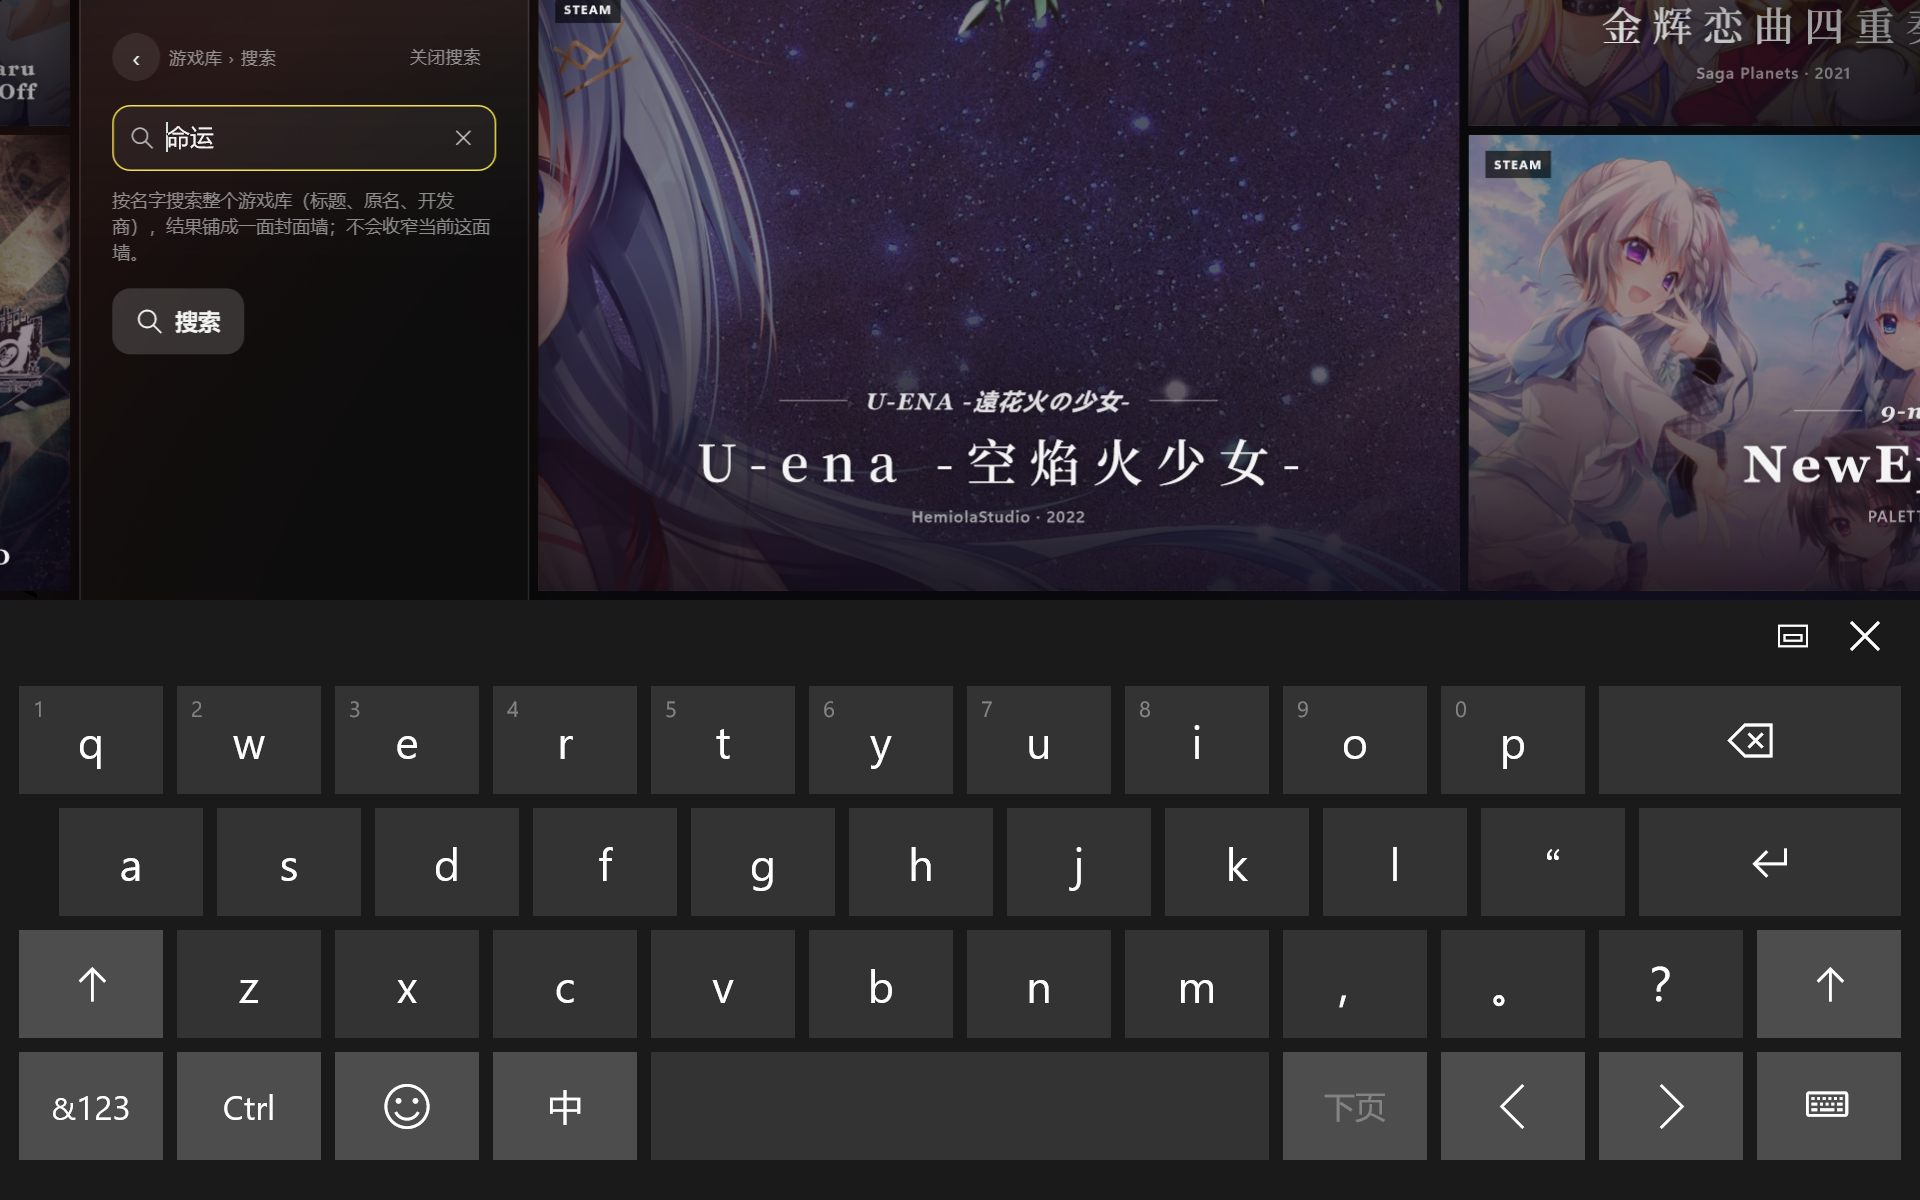
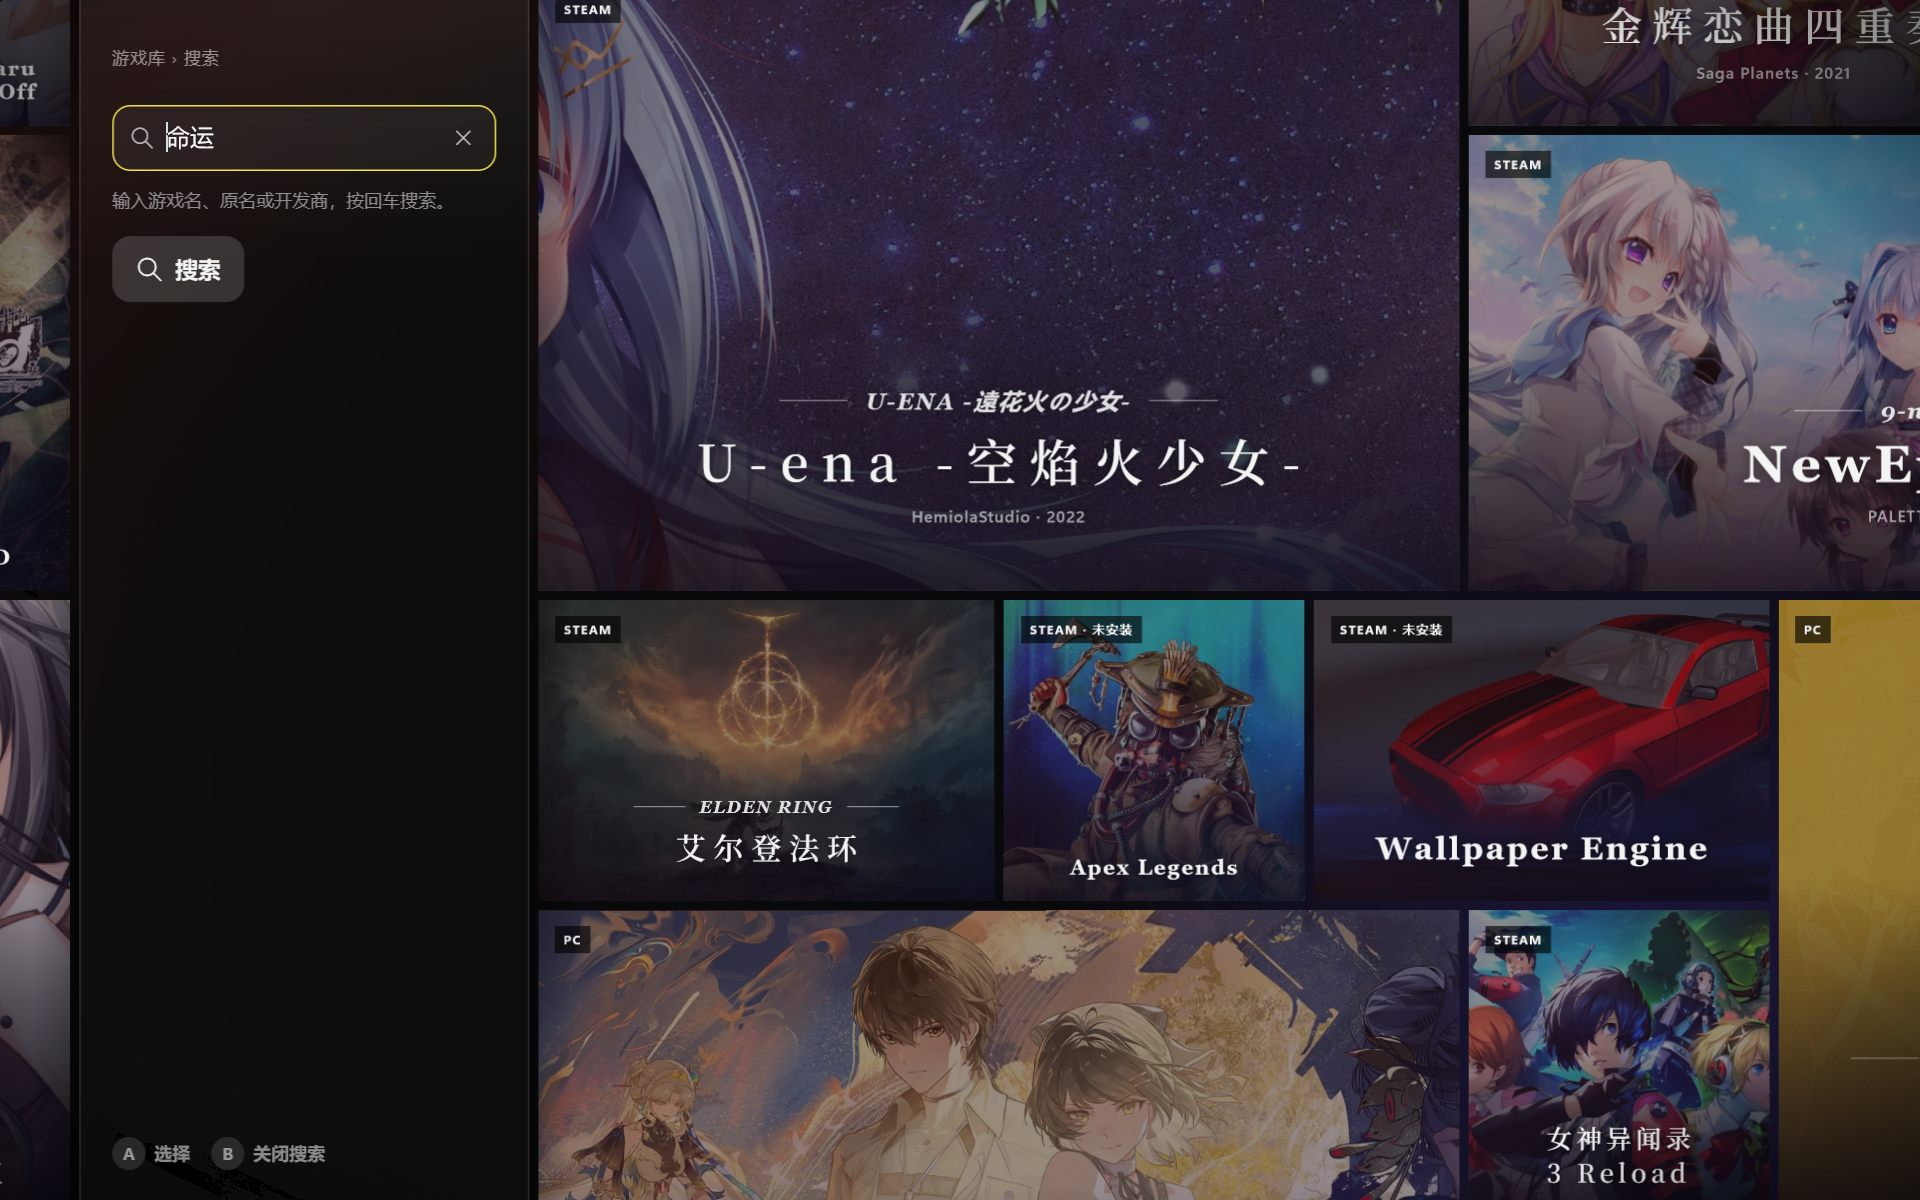
游戏库原生版：搜索面板去掉 ‹ 与「关闭搜索」，提示改成正常的搜索说明

diff --git a/frontend/library-native/ClawLibrary/Stage/Chrome.cs b/frontend/library-native/ClawLibrary/Stage/Chrome.cs
@@ -196,18 +196,18 @@ public sealed class Chrome
     // ---------------- 缝：搜索面板 ----------------
 
     /// <summary>搜索面板里能聚焦 / 能点的几处（面板坐标，DIP）。Input 是输入框里放文字的那块（XAML TextBox 叠在上面）。</summary>
-    public sealed record SearchPanelLayout(Windows.Foundation.Rect Back, Windows.Foundation.Rect Close, Windows.Foundation.Rect Field,
-        Windows.Foundation.Rect Input, Windows.Foundation.Rect Clear, Windows.Foundation.Rect Submit);
+    public sealed record SearchPanelLayout(Windows.Foundation.Rect Field, Windows.Foundation.Rect Input, Windows.Foundation.Rect Clear, Windows.Foundation.Rect Submit);
 
     public const string SearchPlaceholder = "搜索游戏库";
-    private const string SearchHint = "按名字搜索整个游戏库（标题、原名、开发商），结果铺成一面封面墙；不会收窄当前这面墙。";
+    private const string SearchHint = "输入游戏名、原名或开发商，按回车搜索。";
 
     /// <summary>
     /// 首页窄缝临时展开成的搜索面板（照 folia 书库首页缝里的全局搜索框：BravaisSeamSearch + bravaisHome.css）。
-    /// 自上而下：面包屑行（‹ · 游戏库 › 搜索 ·〔关闭搜索〕）→ 带框的输入框（放大镜、输入、×）→ 提示 → 主按钮「搜索」。
+    /// 自上而下：面包屑（游戏库 › 搜索）→ 带框的输入框（放大镜、输入、× 关闭）→ 提示 → 主按钮「搜索」。
+    /// （folia 面包屑行里的 ‹ 与「关闭搜索」不要：× 和 B 已经能关。）
     /// 间距照 .bravais-seam-search（padding 22 22 0，gap 16）、.bravais-search-form（高 44、圆角 12、描边 24 %、底 5 %，
     /// 有焦点时描边换强调色）、.bravais-search-hint（12 px、行高 1.45、上边 -6）、.bravais-chrome-button.is-primary（高 44、
-    /// 圆角 12、15 px 粗体、底 16 %）。focus：手柄焦点在哪一项（0 关闭搜索、1 输入框、2 搜索按钮，-1 不在面板里）。
+    /// 圆角 12、15 px 粗体、底 16 %）。focus：手柄焦点在哪一项（1 输入框、2 搜索按钮，-1 不在面板里）。
     /// </summary>
     public (ChromeArt Art, SearchPanelLayout Layout) SeamSearch(float height, int focus, bool typing)
     {
@@ -215,11 +215,6 @@ public sealed class Chrome
         float inner = W - PadX * 2;
         var iconFont = new FontSpec("Segoe Fluent Icons", 400);
         // 面包屑行（min-height 32）
-        var back = new Windows.Foundation.Rect(PadX, PadTop, 32, 32);
-        var closeL = H("关闭搜索", TextKit.Ui(400), 11, 0.08f * 11);
-        var (clx, cly, clw, clh) = Box(closeL);
-        float pillW = clw + 18 + 2, pillH = clh + 6 + 2;
-        var close = new Windows.Foundation.Rect(W - PadX - pillW, PadTop + 16 - pillH / 2, pillW, pillH);
         // 输入框（44 高）
         float formY = PadTop + 32 + Gap;
         var field = new Windows.Foundation.Rect(PadX, formY, inner, 44);
@@ -235,26 +230,15 @@ public sealed class Chrome
         var (lbx, lby, lbw, lbh) = Box(label);
         float btnW = 16 + 18 + 8 + lbw + 16;
         var submit = new Windows.Foundation.Rect(PadX, hintY + hbh + Gap, btnW, 44);
-        var layout = new SearchPanelLayout(back, close, field, input, clear, submit);
+        var layout = new SearchPanelLayout(field, input, clear, submit);
 
         var art = Draw(W, height, ds =>
         {
             var soft = Theme.SeamInkSoft;
-            // ‹ 与面包屑
-            ds.FillCircle((float)back.X + 16, (float)back.Y + 16, 16, Gfx.Rgba(255, 255, 255, 0.08));
-            var bl = H("‹", TextKit.Ui(400), 18);
-            var (bx, by, bw, bh) = Box(bl);
-            ds.DrawTextLayout(bl, (float)back.X + 16 - bw / 2 - bx, (float)back.Y + 16 - bh / 2 - by, Theme.Ink);
+            // 面包屑
             var crumb = H("游戏库 › 搜索", TextKit.Ui(400), 11, 0.08f * 11);
             var (cx0, cy0, _, ch) = Box(crumb);
-            ds.DrawTextLayout(crumb, (float)back.Right + 6 - cx0, PadTop + 16 - ch / 2 - cy0, soft);
-            // 关闭搜索（.bravais-seam-level：静止无框，焦点时 16 % 底 + 描边）
-            if (focus == 0)
-            {
-                ds.FillRoundedRectangle(close, 12, 12, Gfx.WithAlpha(Theme.Ink, 0.16));
-                ds.DrawRoundedRectangle(close, 12, 12, Gfx.WithAlpha(Theme.Ink, 0.26), 1);
-            }
-            ds.DrawTextLayout(closeL, (float)close.X + 10 - clx, (float)close.Y + 4 - cly, focus == 0 ? Theme.Ink : soft);
+            ds.DrawTextLayout(crumb, PadX - cx0, PadTop + 16 - ch / 2 - cy0, soft);
 
             // 输入框
             ds.FillRoundedRectangle(field, 12, 12, Gfx.WithAlpha(Theme.Ink, 0.05));

diff --git a/frontend/library-native/ClawLibrary/Stage/WallStage.Rail.cs b/frontend/library-native/ClawLibrary/Stage/WallStage.Rail.cs
@@ -322,9 +322,9 @@ public sealed partial class WallStage
     // ---------------- 搜索（照 folia 首页缝里的全局搜索框） ----------------
     // 放大镜把首页窄缝临时展开成完整宽度的搜索面板（与进合集同一套开口补间 + 翻面），输入框拿焦点。
     // 输入框不跟着打字过滤：提交才搜，结果作为一层「游戏库 › 搜索」压进来，铺成一面封面墙（不是列表）；
-    // 「关闭搜索」、×、Esc / B 只关面板，缝翻回竖条。没有结果时面板留着，提示一下。
+    // ×、Esc / B 只关面板，缝翻回竖条。没有结果时面板留着，提示一下。
 
-    /// <summary>搜索面板里手柄焦点在哪一项：0 关闭搜索、1 输入框、2 搜索按钮。</summary>
+    /// <summary>搜索面板里手柄焦点在哪一项：1 输入框、2 搜索按钮。</summary>
     private int _searchFocus = 1;
     /// <summary>输入框此刻有键盘焦点（描边换强调色）。</summary>
     private bool _searchTyping;
@@ -367,11 +367,6 @@ public sealed partial class WallStage
                     e.Handled = true;
                     _rootEl.Focus(FocusState.Programmatic);
                     _railFocused = true; _searchFocus = 2; RepaintRail();
-                    break;
-                case Windows.System.VirtualKey.Up:
-                    e.Handled = true;
-                    _rootEl.Focus(FocusState.Programmatic);
-                    _railFocused = true; _searchFocus = 0; RepaintRail();
                     break;
             }
         };
@@ -510,7 +505,7 @@ public sealed partial class WallStage
     private bool SearchMove(Direction dir)
     {
         if (dir is Direction.Left or Direction.Right) { ExitRail(dir == Direction.Left); return true; }
-        int next = Math.Clamp(_searchFocus + (dir == Direction.Down ? 1 : -1), 0, 2);
+        int next = Math.Clamp(_searchFocus + (dir == Direction.Down ? 1 : -1), 1, 2);
         if (next != _searchFocus) { _searchFocus = next; RepaintRail(); }
         return true;
     }
@@ -519,7 +514,6 @@ public sealed partial class WallStage
     {
         switch (_searchFocus)
         {
-            case 0: CloseSearch(); break;
             case 1: FocusSearchBox(); break;
             default: SubmitSearch(); break;
         }
@@ -530,7 +524,7 @@ public sealed partial class WallStage
     {
         if (_searchLayout is not { } l) return;
         var p = new Windows.Foundation.Point(lx, ly);
-        if (l.Back.Contains(p) || l.Close.Contains(p) || l.Clear.Contains(p)) CloseSearch();
+        if (l.Clear.Contains(p)) CloseSearch();
         else if (l.Field.Contains(p)) FocusSearchBox();
         else if (l.Submit.Contains(p)) { _railFocused = true; _searchFocus = 2; SubmitSearch(); }
     }

diff --git a/docs/native-library/README.md b/docs/native-library/README.md
@@ -1,4 +1,4 @@
-# 游戏库原生版：对照与实测（2026-10-14，MSI Claw 8，1920×1200 @150%，60 Hz）
+# 游戏库原生版：对照与实测（2026-10-14，MSI Claw 8，1920×1200 @150%，60 Hz）
 
 代码在 `frontend/library-native/`。WinUI 3 只做窗口，墙面全部画在 Microsoft.UI.Composition 视觉层上，
 相机 / 缝 / 让位 / 翻牌 / 波次动画都在合成线程跑；NativeAOT，自包含 MSIX，用 CN=ClawToolbox 签名。
@@ -104,9 +104,9 @@ CPU 0.8 %、GPU 3D 1.9 %；60 秒无操作后 CPU 0.04 %、GPU 0 %。
 
 - 对照的是 folia 书库首页缝里的全局搜索框（`src/library/suites/bravais/BravaisSeamSearch.tsx`、`bravaisHome.css` 的 `.bravais-seam-search` / `.bravais-search-form` / `.bravais-search-hint`、`bravais.css` 的 `.bravais-chrome-button.is-primary` 与 `.bravais-seam-level`），按它的结构和尺寸自己重画（folia 是 AGPL，没有拷代码）：
   - 竖条上的放大镜把首页窄缝**临时展开成完整宽度**（与进合集同一套开口补间 + 翻面），输入框打开即拿焦点；
-  - 面板自上而下：面包屑行（‹ · 游戏库 › 搜索 · 右边「关闭搜索」）→ 带框输入框（高 44、圆角 12、描边 24 %、底 5 %；有焦点时描边换强调色；左放大镜、右 ×）→ 12 px 提示 → 主按钮「搜索」（高 44、圆角 12、15 px 粗体、底 16 %）；
-  - 和 folia 一样**打字不过滤**，提交（回车 / 「搜索」）才搜；「关闭搜索」、×、‹、Esc / B 只关面板，缝翻回竖条。
+  - 面板自上而下：面包屑（游戏库 › 搜索；folia 这一行里的 ‹ 和「关闭搜索」按反馈去掉了，× 和 B 就能关）→ 带框输入框（高 44、圆角 12、描边 24 %、底 5 %；有焦点时描边换强调色；左放大镜、右 ×）→ 12 px 提示 → 主按钮「搜索」（高 44、圆角 12、15 px 粗体、底 16 %）；
+  - 和 folia 一样**打字不过滤**，提交（回车 / 「搜索」）才搜；×、Esc / B 只关面板，缝翻回竖条。提示文字：「输入游戏名、原名或开发商，按回车搜索。」
 - **结果不是列表，是一面封面墙**：在「全部」里按标题、主标题、原名、副标题（开发商）找，结果作为一层「游戏库 › 搜索」压进来，缝翻成信息条（竖排大标题 = 搜索词、N 款游戏），墙从缝边翻牌换成结果。结果墙是**有限的方块矩阵**（不像合集那样循环铺满）：缝右边的格子按离起点远近排名，第 0 名就是起点那格，往外一圈圈放完为止，其余格子空着。B 返回首页。没有结果时面板留着，提示「没有找到」。
-- 手柄：焦点进面板落在输入框；上下在「关闭搜索 / 输入框 / 搜索」之间走，A 执行，左右回墙。
+- 手柄：焦点进面板落在输入框；上下在「输入框 / 搜索」之间走，A 执行，左右回墙。
 - 顺手修了一个隐患：延时动作用的计时器没人引用，可能被回收、到点不响（搜索框就因此有时放不上去）；现在响之前一直挂着。
 - 截图：`docs/native-library/search-panel.jpg`、`search-results.jpg`。
